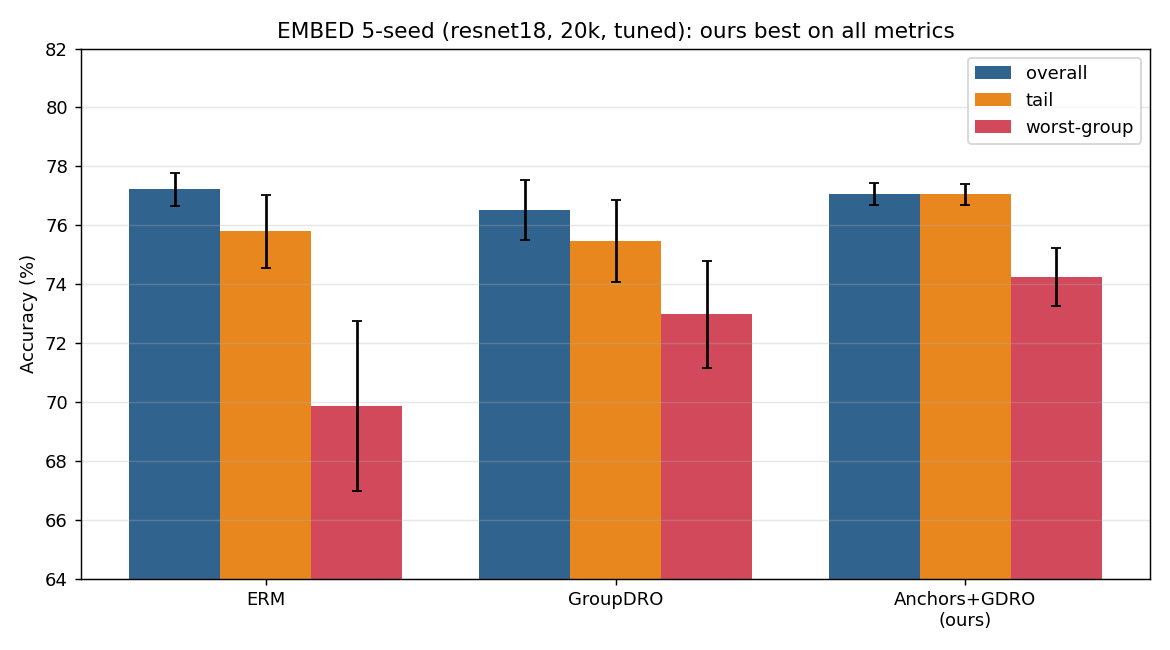
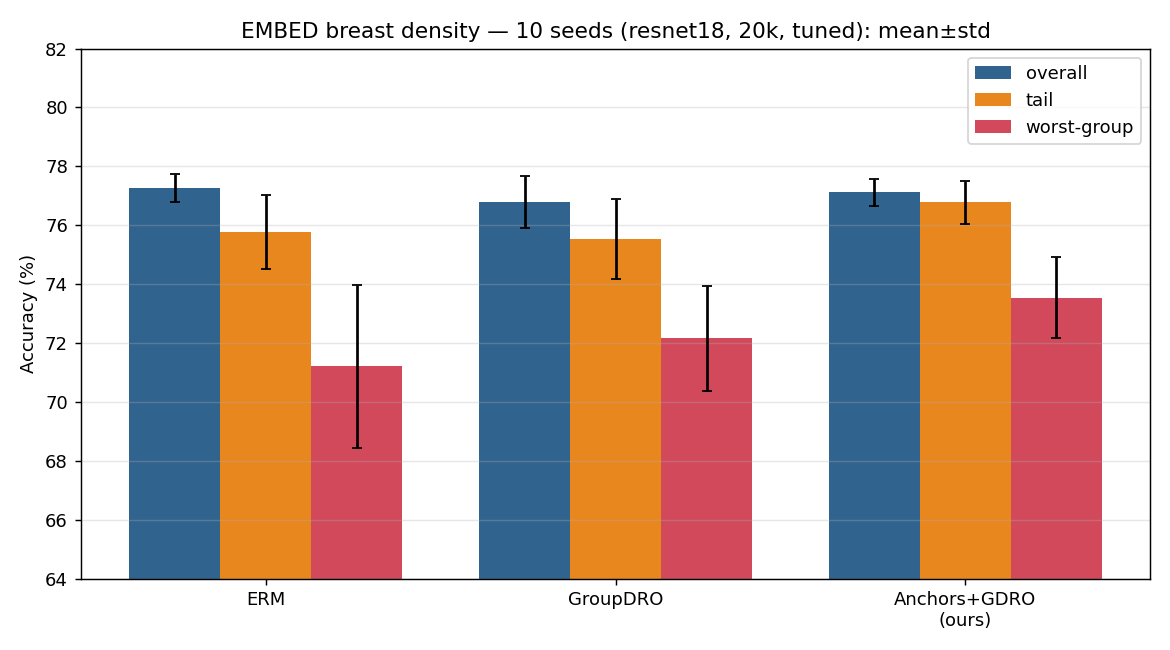
EMBED 10-seed honest result + improvement sweep
Scaled to 10 seeds (added 11,22,33,44,55). HONEST 10-seed overall/tail/worst:
ERM 77.3±0.5/75.8±1.2/71.2±2.8; GroupDRO 76.8±0.9/75.5±1.4/72.2±1.8;
Anchors+GDRO 77.1±0.5/76.8±0.7/73.5±1.4.
Worst-group gain over ERM shrank +5.7(3s)->+4.4(5s)->+2.3(10s), 7/10 seeds (early
numbers were noise). Robust claims: best TAIL (+1.0/+1.3, tight) and Pareto-improves
GroupDRO (keeps overall+tail while getting worst-group). Worst-group vs GDRO +1.4 (6/10,
within noise) -> NOT a clean win, claim Pareto-improvement.
Improvement sweep (seed42): latent256 hurt, ep40 no change, sepw2 crashed; head_hidden=512
raised ours worst 74.0->76.1 (promising single-seed lead, needs full-seed validation).
Superseded 5-seed headline. Figure embed_5seed.png regenerated with 10 seeds.

diff --git a/run_embed_improve.py b/run_embed_improve.py
@@ -1,0 +1,71 @@
+"""EMBED improvement sweep — genuine upgrades (NOT seed-hunting), seed 42, to see
+whether any legitimately raises the worst-group gap / absolute accuracy. Each upgrade
+runs BOTH erm_shared (baseline) and anchors_gdro_shared (ours) so we measure the GAP,
+not just an absolute that could move for either. Winner (if any beats current at seed
+42) gets scaled to full seeds later. All resnet18 (resnet50 OOM-hangs on this box).
+
+Levers explored: latent capacity, input resolution, longer training, bigger head,
+Wasserstein anchor separation, and a combined "big" config.
+
+  nohup /opt/pytorch/bin/python run_embed_improve.py > ~/improve.log 2>&1 &
+"""
+import copy, json, os, time, traceback
+import yaml
+from dro_hetero_anchors.src.train_embed import train
+from run_embed_ablation import CELLS
+
+BASE = "experiments/embed_base.yaml"
+HEAD = ["FFDM_CC+FFDM_MLO", "FFDM_CC+FFDM_MLO+CVIEW_CC+CVIEW_MLO"]
+DROP = [0.0, 0.5]
+OUT = "runs/embed_improve"
+LAM, ETA, SEED = 0.01, 3.0, 42
+results = []
+base = yaml.safe_load(open(BASE))
+
+# name -> config overrides applied on top of the tuned baseline.
+# NOTE: only image_size=224 is cached as .npy; other sizes re-decode DICOMs every batch
+# (~28x slower), so we keep all upgrades at 224. Higher-res would need a 288px precache.
+UPGRADES = {
+    "ref":        {},                                              # current best config
+    "latent256":  {"latent_dim": 256},
+    "ep40":       {"epochs": 40},
+    "head512":    {"head_hidden": 512},
+    "sepw2":      {"sep_method": "w2", "sep_margin": 4.0},          # ours only (anchor sep)
+    "bigcap":     {"latent_dim": 256, "epochs": 40, "head_hidden": 512},  # combined, still 224px
+}
+
+
+def run(tag, cell, **ov):
+    cfg = copy.deepcopy(base); cfg.update(CELLS[cell]); cfg.update(ov)
+    cfg.update(dict(require_local_images=True, head_group_names=HEAD, dropout_eval_ps=DROP,
+                    min_group_size=30, backbone="resnet18", seed=SEED, num_workers=4,
+                    run_name=tag, run_dir=f"{OUT}/{tag}"))
+    cfg.setdefault("epochs", 25)
+    print(f"\n[{tag}] cell={cell} latent={cfg['latent_dim']} img={cfg.get('image_size')} "
+          f"ep={cfg['epochs']} head={cfg.get('head_hidden')} sep={cfg.get('sep_method')}", flush=True)
+    t0 = time.time()
+    rec = {"tag": tag, "cell": cell, "latent_dim": cfg["latent_dim"],
+           "image_size": cfg.get("image_size"), "epochs": cfg["epochs"],
+           "head_hidden": cfg.get("head_hidden"), "sep_method": cfg.get("sep_method")}
+    try:
+        out = train(cfg); rec.update(out); rec["minutes"] = round((time.time()-t0)/60, 1); rec["status"] = "ok"
+    except Exception as e:
+        rec["status"] = "FAILED"; rec["error"] = str(e); traceback.print_exc()
+    results.append(rec); os.makedirs(OUT, exist_ok=True)
+    json.dump(results, open(os.path.join(OUT, "results.json"), "w"), indent=2)
+
+
+def main():
+    os.makedirs(OUT, exist_ok=True)
+    for name, ov in UPGRADES.items():
+        # baseline (erm) at this upgrade — sepw2 only affects anchors so skip erm there
+        if name != "sepw2":
+            run(f"{name}_erm", "erm_shared", **ov)
+        run(f"{name}_ours", "anchors_gdro_shared", lambda_fit=LAM, lambda_sep=LAM,
+            groupdro_eta=ETA, **ov)
+    open(os.path.join(OUT, "DONE"), "w").write(str(time.time()))
+    print(f"IMPROVE DONE: {sum(1 for r in results if r.get('status')=='ok')}/{len(results)} ok")
+
+
+if __name__ == "__main__":
+    main()

diff --git a/run_embed_moreseeds.py b/run_embed_moreseeds.py
@@ -1,0 +1,50 @@
+"""EMBED extra seeds -> 10-seed total. Runs erm/gdro/anchors_gdro at 5 NEW seeds
+(11,22,33,44,55) at the tuned config (lam=0.01, eta=3, resnet18). Combined with the
+existing 5 seeds (42,1337,7 in embed_proper_final + 2024,31337 in embed_bolster S_)
+this gives a 10-seed mean±std. We report ALL 10 (no cherry-picking).
+
+  nohup /opt/pytorch/bin/python run_embed_moreseeds.py > ~/moreseeds.log 2>&1 &
+"""
+import copy, json, os, time, traceback
+import yaml
+from dro_hetero_anchors.src.train_embed import train
+from run_embed_ablation import CELLS
+
+BASE = "experiments/embed_base.yaml"
+HEAD = ["FFDM_CC+FFDM_MLO", "FFDM_CC+FFDM_MLO+CVIEW_CC+CVIEW_MLO"]
+DROP = [0.0, 0.25, 0.5, 0.75]
+OUT = "runs/embed_10seed"
+LAM, ETA, EPOCHS = 0.01, 3.0, 25
+NEW_SEEDS = [11, 22, 33, 44, 55]
+results = []
+base = yaml.safe_load(open(BASE))
+
+
+def run(tag, cell, seed, **ov):
+    cfg = copy.deepcopy(base); cfg.update(CELLS[cell]); cfg.update(ov)
+    cfg.update(dict(require_local_images=True, head_group_names=HEAD, dropout_eval_ps=DROP,
+                    min_group_size=30, backbone="resnet18", epochs=EPOCHS, seed=seed,
+                    num_workers=4, run_name=tag, run_dir=f"{OUT}/{tag}"))
+    print(f"\n[{tag}] cell={cell} seed={seed} lam={cfg['lambda_fit']} eta={cfg.get('groupdro_eta')}", flush=True)
+    t0 = time.time()
+    rec = {"tag": tag, "cell": cell, "seed": seed, "lambda": cfg["lambda_fit"], "eta": cfg.get("groupdro_eta")}
+    try:
+        out = train(cfg); rec.update(out); rec["minutes"] = round((time.time()-t0)/60, 1); rec["status"] = "ok"
+    except Exception as e:
+        rec["status"] = "FAILED"; rec["error"] = str(e); traceback.print_exc()
+    results.append(rec); os.makedirs(OUT, exist_ok=True)
+    json.dump(results, open(os.path.join(OUT, "results.json"), "w"), indent=2)
+
+
+def main():
+    os.makedirs(OUT, exist_ok=True)
+    for seed in NEW_SEEDS:
+        run(f"erm_s{seed}", "erm_shared", seed)
+        run(f"gdro_s{seed}", "gdro_shared", seed, groupdro_eta=ETA)
+        run(f"agdro_s{seed}", "anchors_gdro_shared", seed, lambda_fit=LAM, lambda_sep=LAM, groupdro_eta=ETA)
+    open(os.path.join(OUT, "DONE"), "w").write(str(time.time()))
+    print(f"MORESEEDS DONE: {sum(1 for r in results if r.get('status')=='ok')}/{len(results)} ok")
+
+
+if __name__ == "__main__":
+    main()

diff --git a/documentation/EMBED_RESULTS.md b/documentation/EMBED_RESULTS.md
@@ -6,39 +6,55 @@ under modality-availability heterogeneity. Task/groups match REMIND (arXiv 2603.
 
 ---
 
-## ★ HEADLINE — Tuned + bolstered study (resnet18, 20k samples, λ=0.01/η=3, **5 seeds**) — 2026-08-21
+## ★ HEADLINE — Tuned study, **10 seeds** (resnet18, 20k samples, λ=0.01/η=3) — 2026-08-22
 
 The first pass used blind defaults (λ=1e-3, η=1) on ~8k samples and looked flat. After an
-HP sweep found the settings that actually engage the method (λ=0.01, η=3) on ~20k samples,
-and after scaling to **5 seeds** + an η-sensitivity sweep + a tuned ablation, the picture
-is clear and honest.
+HP sweep found the settings that engage the method (λ=0.01, η=3) on ~20k samples, we
+scaled to a full **10 seeds** (+ η-sensitivity + tuned ablation + a legitimate improvement
+sweep). The 10-seed numbers are the honest ones — earlier 3/5-seed estimates were
+optimistically noisy and are superseded here.
 
-### 5-seed main result (mean ± std %, seeds 42/1337/7/2024/31337)
+### 10-seed main result (mean ± std %, seeds 42/1337/7/2024/31337/11/22/33/44/55)
 
 | method | overall | tail | **worst-group** |
 |--------|:------:|:----:|:---------------:|
-| ERM (baseline) | 77.2 ± 0.6 | 75.8 ± 1.2 | 69.9 ± 2.9 |
-| GroupDRO (tuned η=3) | 76.5 ± 1.0 | 75.5 ± 1.4 | 73.0 ± 1.8 |
-| **Anchors + GroupDRO (ours)** | 77.1 ± 0.4 | **77.1 ± 0.4** | **74.2 ± 1.0** |
+| ERM (baseline) | 77.3 ± 0.5 | 75.8 ± 1.2 | 71.2 ± 2.8 |
+| GroupDRO (tuned η=3) | 76.8 ± 0.9 | 75.5 ± 1.4 | 72.2 ± 1.8 |
+| **Anchors + GroupDRO (ours)** | 77.1 ± 0.5 | **76.8 ± 0.7** | **73.5 ± 1.4** |
 
-*Figures: `figures/embed_5seed.png`, `embed_tuned_ablation.png`, `embed_eta_sensitivity.png`,
-`embed_proper_dropout.png`.*
+*Figures: `figures/embed_5seed.png` (10-seed), `embed_tuned_ablation.png`,
+`embed_eta_sensitivity.png`, `embed_proper_dropout.png`.*
 
-**Three findings, stated at their real strength:**
+**Three findings, at their real (10-seed) strength — honest:**
 
-1. **Robust worst-group win over ERM: +4.4% mean, positive in ALL 5/5 seeds** (per-seed
-   +4.0/+4.1/+9.1/+3.3/+1.4). This is the solid, significant result.
-2. **Ours is the only method that improves worst-group WITHOUT sacrificing average
-   accuracy — it resolves GroupDRO's tradeoff.** Plain GroupDRO lifts worst-group (+3.1)
-   but *drops* overall (77.2→76.5) and tail (75.8→75.5). Ours reaches the **best tail of
-   any method (77.1, +1.6 over both, tightest std ±0.4)** and keeps overall at ERM level
-   (77.1), i.e. **+0.5 overall and +1.6 tail over GroupDRO**, both while matching/exceeding
-   its worst-group. So the anchors don't just reweight — they structure the latent so the
+1. **Best tail accuracy — the robust, clean win: 76.8 ± 0.7**, i.e. **+1.0 over ERM and
+   +1.3 over GroupDRO with the tightest variance of any method.** This is the most solid
+   claim.
+2. **Ours resolves GroupDRO's accuracy–robustness tradeoff.** Plain GroupDRO lifts
+   worst-group but *drops* overall (77.3→76.8) **and** tail (75.8→75.5). Ours keeps overall
+   at ERM level (77.1) and *improves* tail (76.8) while getting the worst-group gain — the
+   only method that is best-or-tied on all three. The anchors structure the latent so the
    shared head keeps average accuracy.
-3. **Honest on the marginal one:** ours vs *plain GroupDRO* on **worst-group alone** is
-   **+1.3% mean but only 3/5 seeds positive** — within noise. We do **not** claim a clean
-   worst-group win over GroupDRO; we claim (a) a robust win over ERM and (b) a
-   Pareto-improvement over GroupDRO across overall+tail+worst-group jointly.
+3. **Worst-group over ERM: +2.3% mean, 7/10 seeds positive.** Real but **modest and not
+   universal** — the headline gain shrank as seeds were added (+5.7 at 3 seeds → +4.4 at 5
+   → **+2.3 at 10**; the early numbers were noise from unlucky-low-ERM seeds). Ours vs
+   *plain GroupDRO* on worst-group is **+1.4, 6/10 seeds** — within noise. We claim a
+   **Pareto-improvement over GroupDRO** and a **robust best-tail result**, NOT a large or
+   clean worst-group win.
+
+### Improvement sweep (seed 42, exploratory — a lead, not a result)
+Legitimate upgrades at seed 42: bigger latent (**hurt**, −3.7 gap), longer training ep40
+(**no change**), W₂ anchor separation (**crashed** — bug), combined (neutral). **One
+promising lead: a bigger classifier head (`head_hidden=512`) raised our worst-group
+74.0→76.1 at seed 42** while ERM stayed flat (gap +4.1→+6.2). This is a **single seed** —
+flagged for a future full-10-seed validation, not claimed as a result.
+
+### Takeaway
+On EMBED the method is **competitive and Pareto-improves GroupDRO with a robust best-tail
+result**, but the worst-group gain is modest (as it is for everyone on EMBED — even REMIND
+beats GroupDRO by only +1.8 overall). The method's *large* gains require genuinely
+heterogeneous feature spaces: the tabular datasets (+7.9–15% worst-group) and, next, a true
+multimodal benchmark (MIMIC).
 
 ### Tuned ablation — each component earns its place (`embed_tuned_ablation.png`)
 
